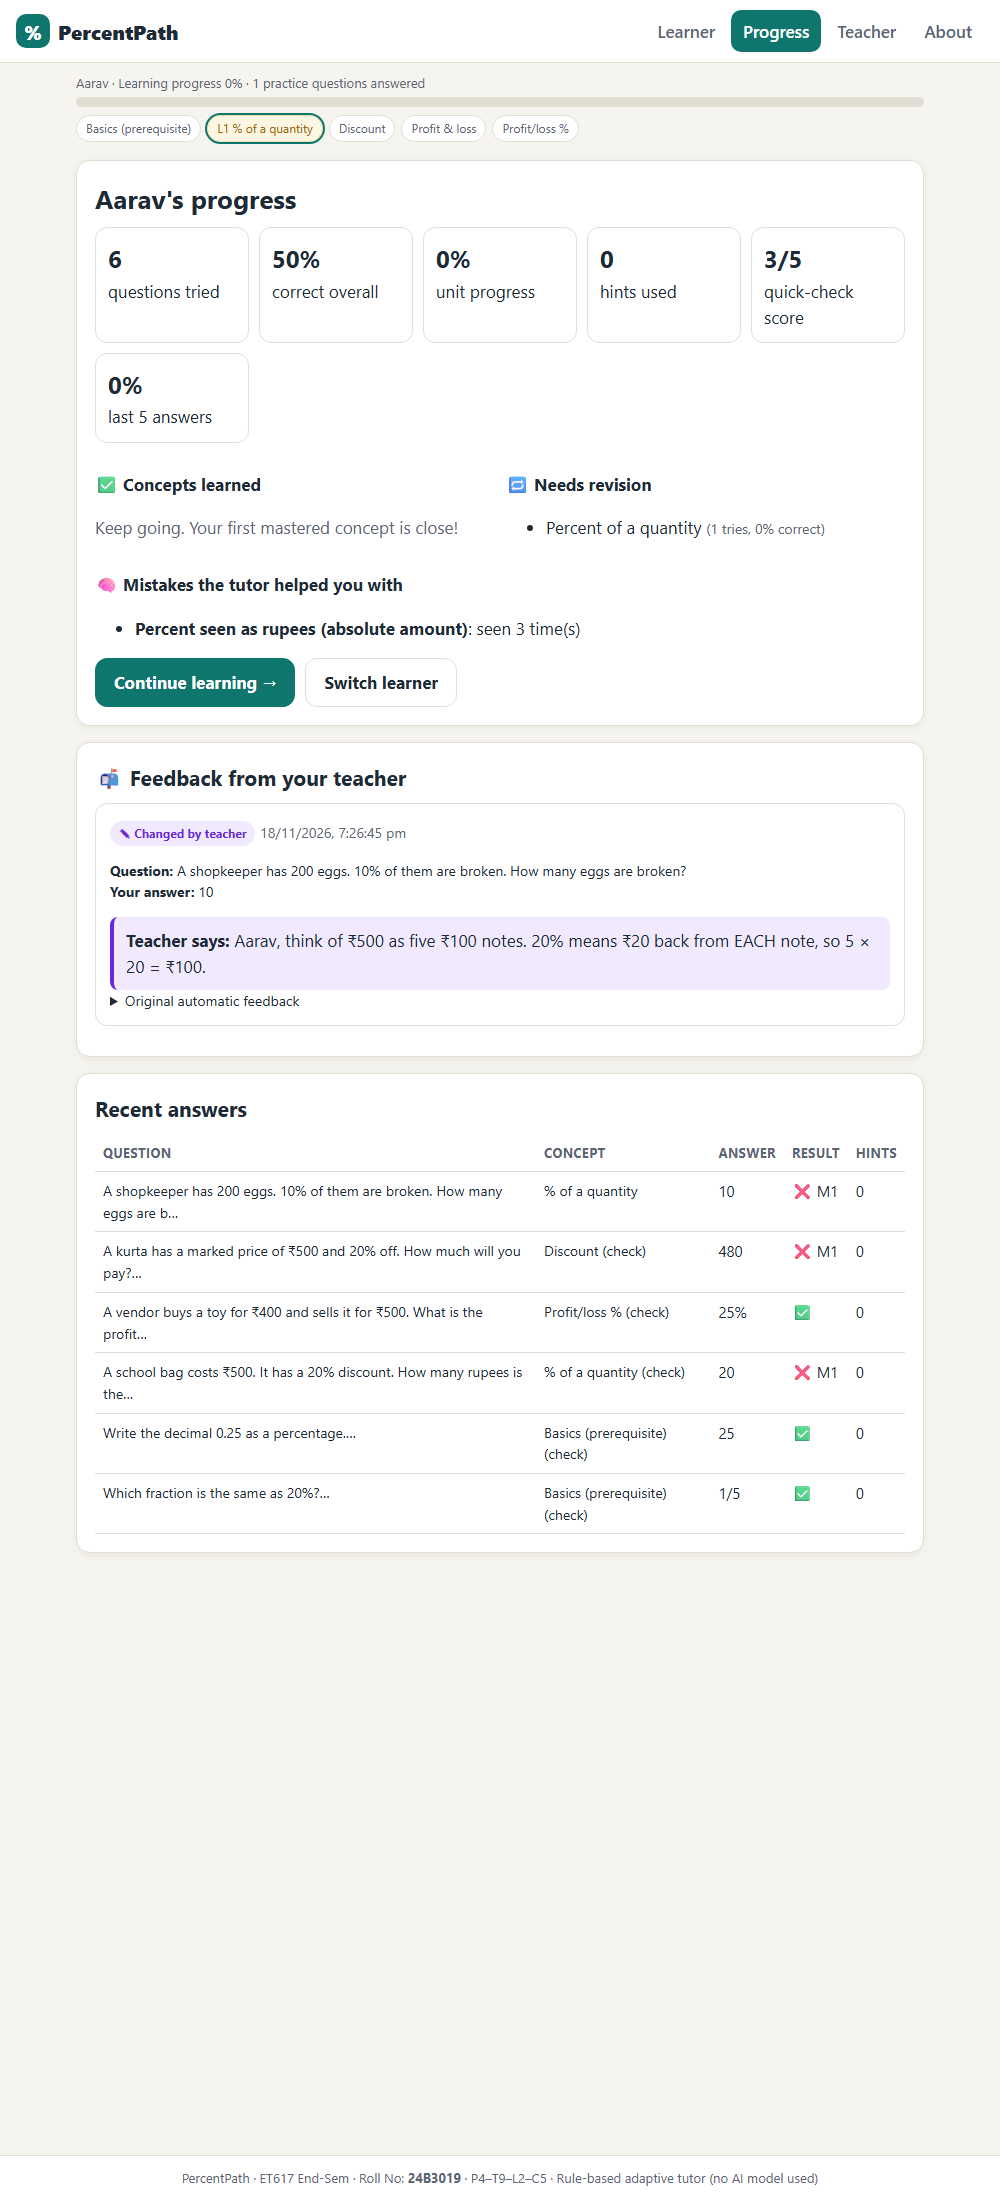
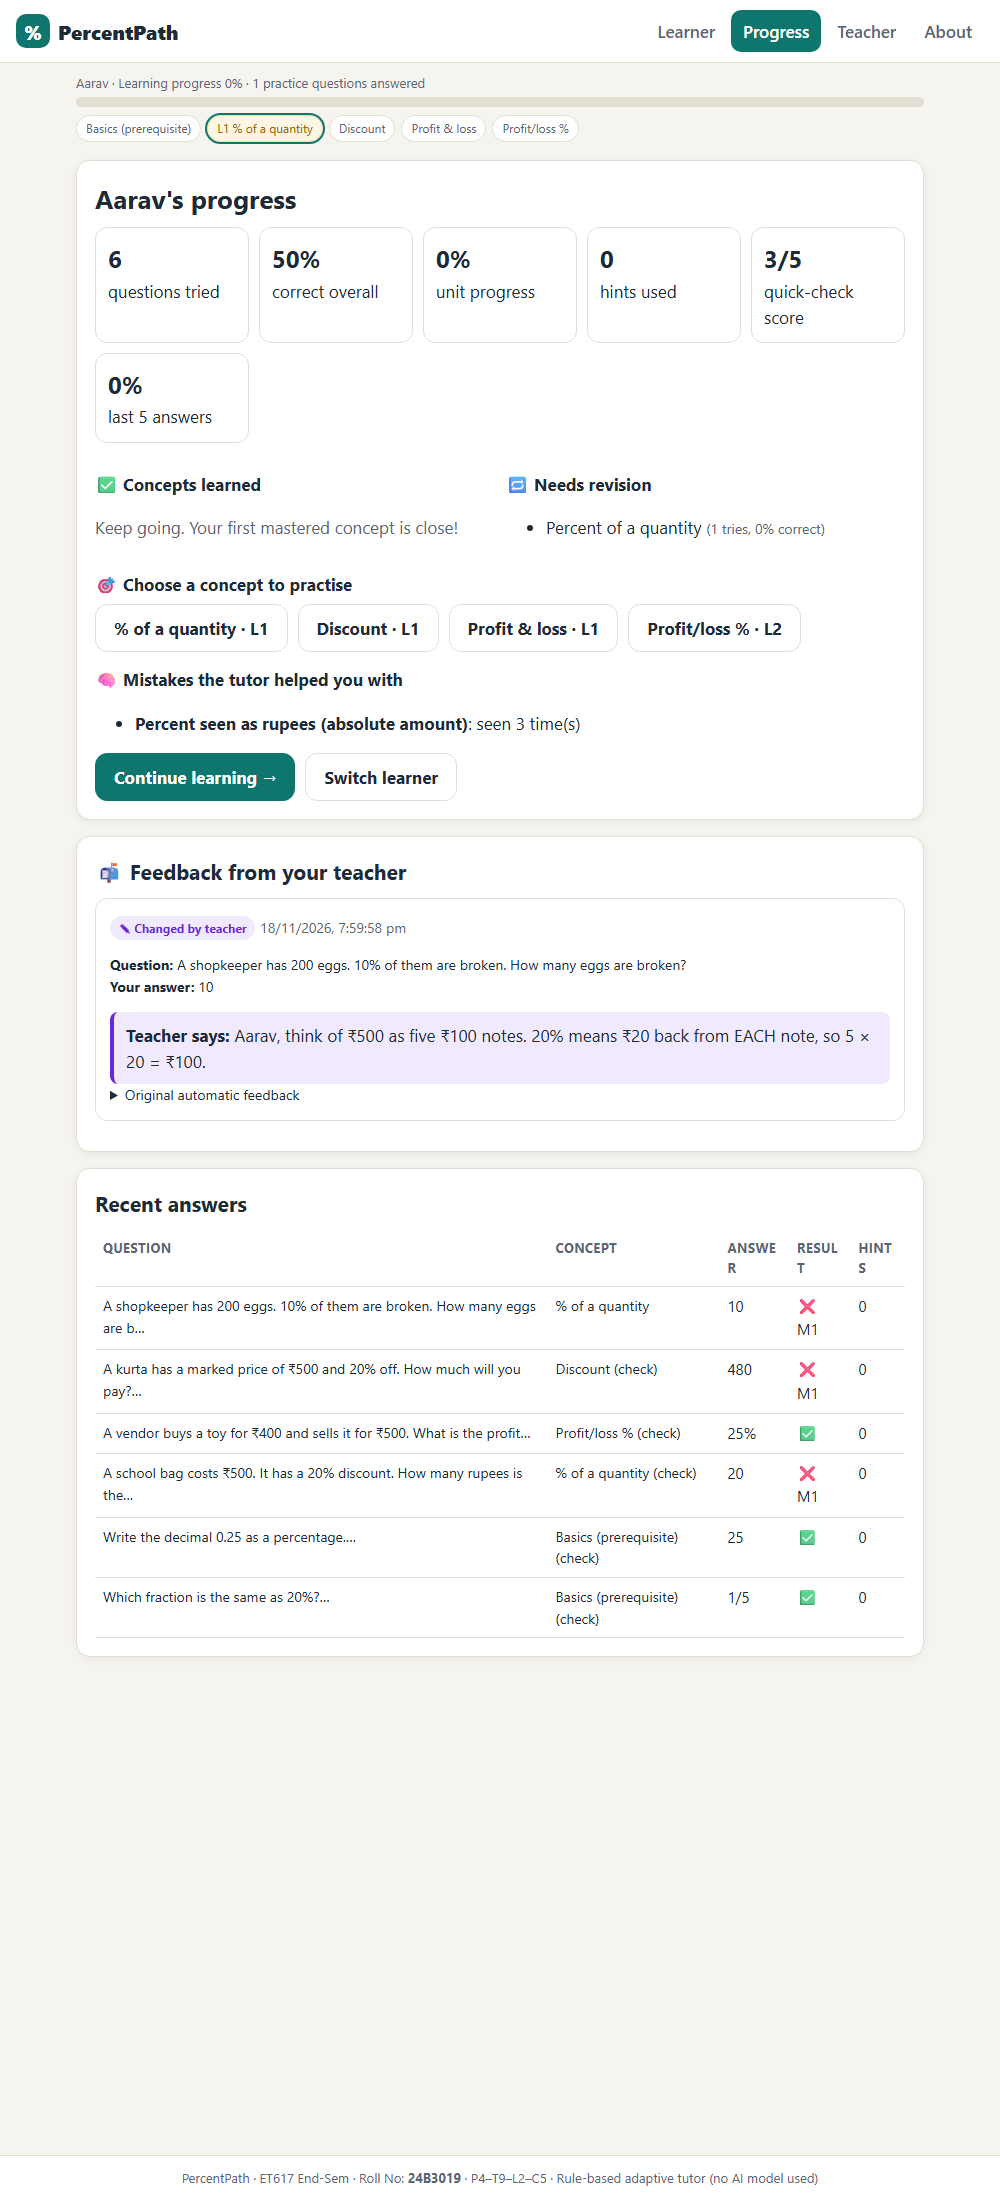
feat: learner concept chooser on progress page; M2 scenario screenshots

diff --git a/js/app.js b/js/app.js
@@ -258,6 +258,8 @@ var App = (function () {
       '<div class="grid2"><div><h3>✅ Concepts learned</h3>' + list(s.mastered, 'Keep going. Your first mastered concept is close!') + '</div>' +
       '<div><h3>🔁 Needs revision</h3>' + list(s.improve, 'Nothing to revise right now.') + '</div></div>' +
       (s.learning.length ? '<h3>📈 In progress</h3>' + list(s.learning, '') : '') +
+      '<h3>🎯 Choose a concept to practise</h3><div class="btn-row" style="margin-top:4px">' + CONCEPT_ORDER.map(function (k) {
+        var c = st.concepts[k]; return '<button class="btn" data-concept="' + k + '">' + (c.mastered ? '✓ ' : '') + CONCEPTS[k].short + ' · L' + c.level + '</button>'; }).join('') + '</div>' +
       '<h3>🧠 Mistakes the tutor helped you with</h3>' + (mis.length ? '<ul>' + mis.map(function (k) { return '<li><b>' + MISCONCEPTIONS[k].name + '</b>: seen ' + st.misconceptions[k] + ' time(s)</li>'; }).join('') + '</ul>' : '<p class="muted">No common mistakes found yet. Great!</p>') +
       '<div class="btn-row">' + (st.complete ? '' : '<button class="btn primary" id="contBtn">Continue learning →</button>') + '<a class="btn" href="#/welcome">Switch learner</a></div></div>' +
       '<div class="card"><h2>📬 Feedback from your teacher</h2>' + (fbs.length ? fbs.slice().reverse().map(function (f) {
@@ -268,6 +270,9 @@ var App = (function () {
       st.history.slice(-10).reverse().map(function (h) { return '<tr><td class="small">' + esc(Q[h.qid].prompt.slice(0, 70)) + '…</td><td class="small">' + CONCEPTS[h.concept].short + (h.diag ? ' (check)' : '') + '</td><td>' + esc(String(h.answer).slice(0, 40)) + '</td><td>' + (h.correct ? '✅' : '❌' + (h.tag ? ' ' + h.tag : '')) + '</td><td>' + h.hints + '</td></tr>'; }).join('') +
       '</table></div></div>';
     var cb = $('#contBtn'); if (cb) cb.onclick = function () { pick(st.id); };
+    app.querySelectorAll('[data-concept]').forEach(function (b) {
+      b.onclick = function () { if (!st.diag.done) { go('#/diagnostic'); return; } Engine.chooseConcept(st, b.dataset.concept); Store.save(); go('#/learn/' + b.dataset.concept); };
+    });
     updateProgress(true);
   }
 

diff --git a/tools/shot.html b/tools/shot.html
@@ -41,6 +41,8 @@ window.onload = function () {
       ['a', 'No, Sana is wrong. 20% means 20 out of every 100, so 20% of 500 = 5 x 20 = 100 rupees'], 'A2', ['c', '#contBtn'], 'A3', ['a', '4200'], 'A4']);
     if (S === 'B') plan = diag([0, '25', '20', 0, '480']).concat([['c', '#practiceBtn'], 'B0', ['a', '10'], 'B1', ['c', '#contBtn'], 'B2', ['a', '30'], 'B3']);
     if (S === 'C') plan = diag([0, '25', '20', 0, '400']).concat([['c', '#practiceBtn'], ['a', '2'], ['c', '#contBtn'], ['a', 3], 'C1', ['c', '#contBtn'], 'C2', ['c', '#practiceBtn'], ['a', '0.2'], 'C3']);
+    if (S === 'M') plan = diag([0, '25', '100', 0, '400']).concat([['c', '#practiceBtn'],
+      ['f', function () { location.hash = '#/summary'; }], 'M0', ['c', '[data-concept="C4"]'], ['c', '#practiceBtn'], ['a', '20'], 'M1', ['c', '#contBtn'], ['a', '25'], 'M2']);
     if (S === 'T') plan = diag([0, '25', '20', 0, '480']).concat([['c', '#practiceBtn'], ['a', '10'],
       ['f', function () { location.hash = '#/teacher/review'; window.dispatchEvent(new HashChangeEvent('hashchange')); $('#pin').value = '1234'; $('#pinForm').dispatchEvent(new Event('submit', { cancelable: true })); }], 'T1',
       ['f', function () { var item = document.querySelector('.review-item'); item.querySelector('[data-open]').click(); item.querySelector('textarea').value = 'Aarav, think of ₹500 as five ₹100 notes. 20% means ₹20 back from EACH note, so 5 × 20 = ₹100.'; item.querySelector('form').dispatchEvent(new Event('submit', { cancelable: true })); }], 'T2',

diff --git a/js/engine.js b/js/engine.js
@@ -244,6 +244,13 @@ var Engine = (function () {
     return o ? { text: o.text, teacher: true } : { text: MISCONCEPTIONS[tag].altExplanation, teacher: false };
   }
 
-  return { RULES: RULES, checkAnswer: checkAnswer, evaluateExplanation: evaluateExplanation, decide: decide, record: record,
+  // Learner-chosen revision: jump to a concept at its current level (exits any follow-up/prereq detour).
+  function chooseConcept(stu, concept) {
+    stu.mode = { type: 'normal' }; stu.complete = false; stu.lastDecision = null;
+    stu.current = { concept: concept, qid: pickQuestion(stu, concept, stu.concepts[concept].level) };
+    stu.pendingLesson = concept;
+  }
+
+  return { RULES: RULES, chooseConcept: chooseConcept, checkAnswer: checkAnswer, evaluateExplanation: evaluateExplanation, decide: decide, record: record,
     finishDiagnostic: finishDiagnostic, stats: stats, progressPct: progressPct, altExplanation: altExplanation, nextConcept: nextConcept, parseNum: parseNum };
 })();
